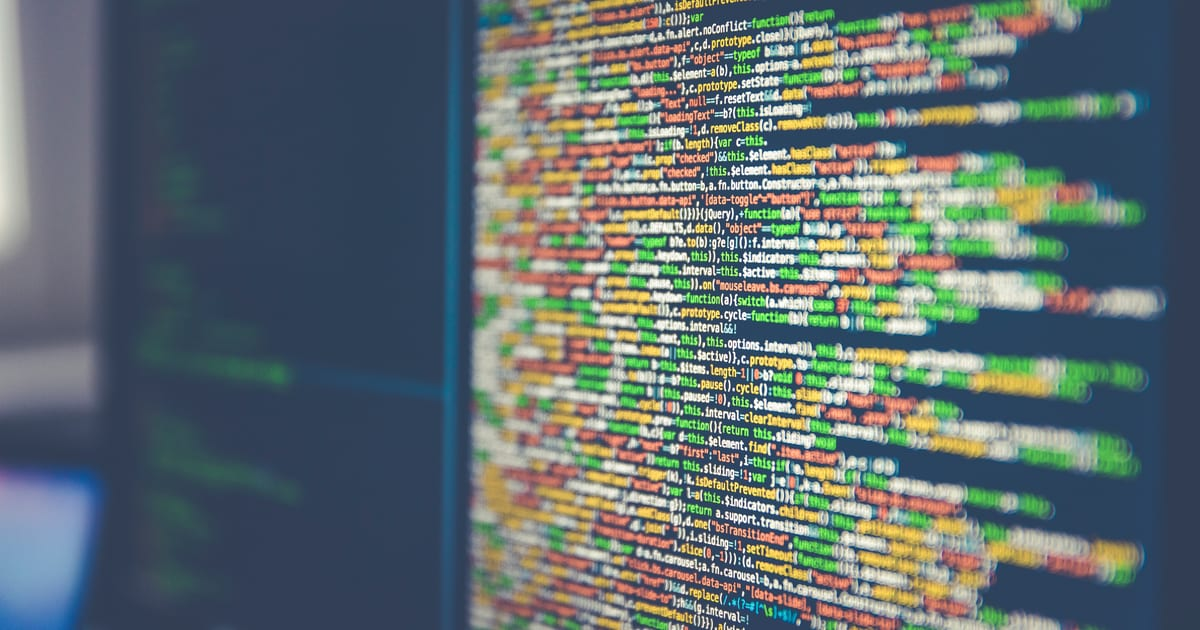
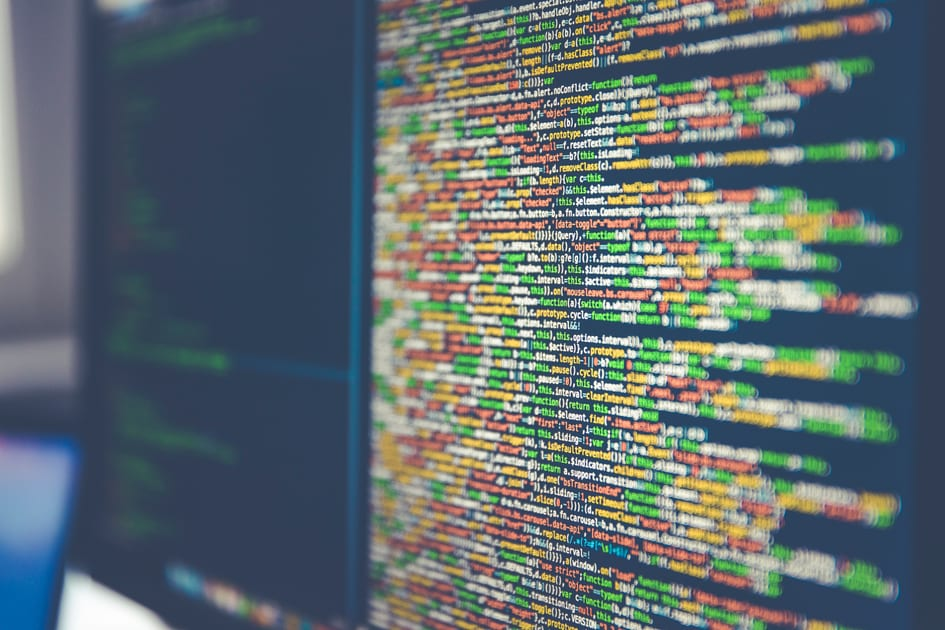
ux: cover tampil utuh (contain) tanpa crop, proporsi asli dipertahankan

diff --git a/assets/css/style.css b/assets/css/style.css
@@ -870,7 +870,8 @@ hr {
   display: block;
   width: 100%;
   aspect-ratio: 16 / 9;
-  object-fit: cover;
+  object-fit: contain;
+  background: var(--card);
   border: 1px solid var(--line);
   border-radius: 18px;
 }
